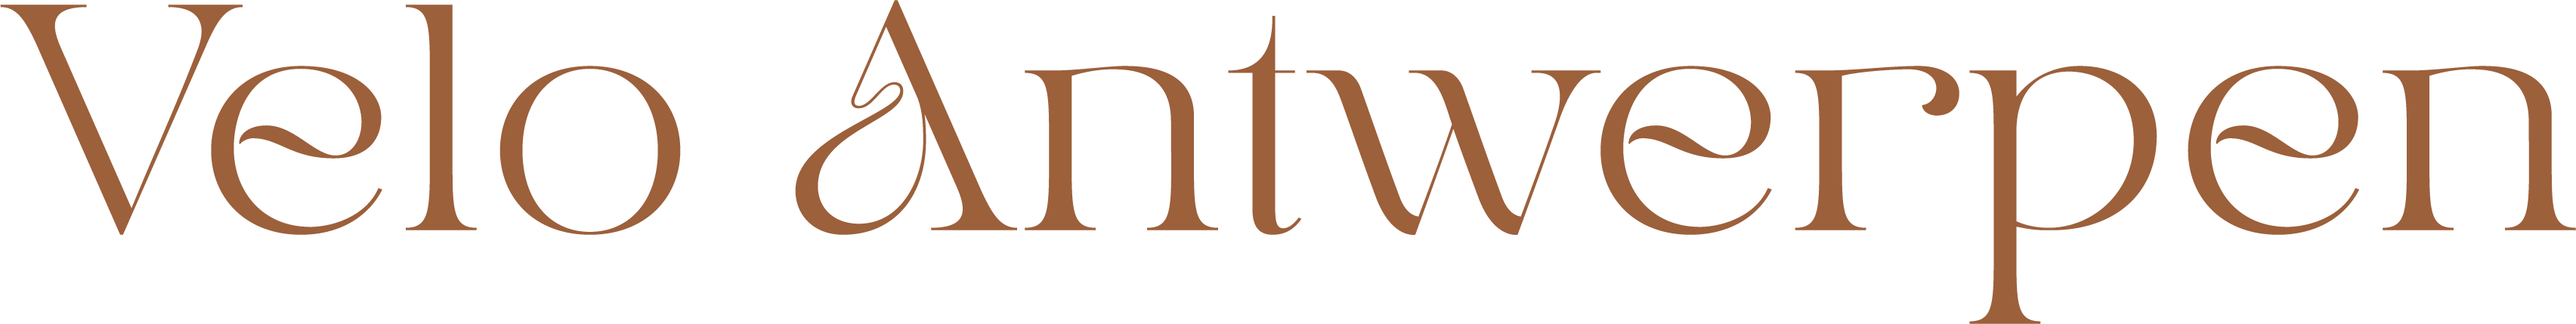
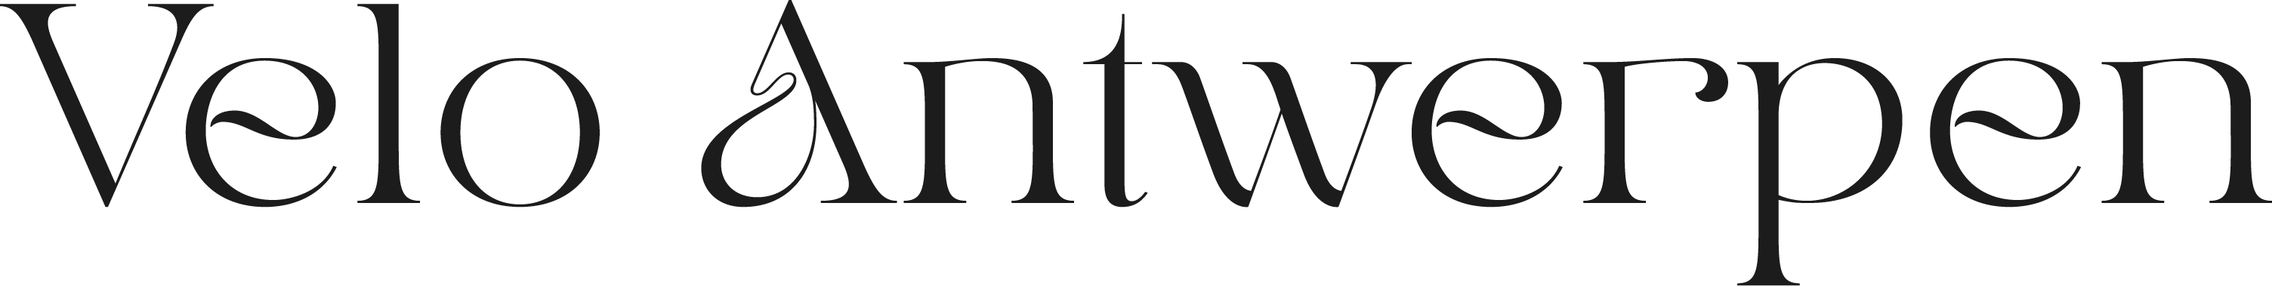
kleur wijziging

Changed region(s): [[0.25, 0.0, 1.0, 1.0], [0.0, 0.0, 0.25, 0.7256], [0.0625, 0.0, 0.0938, 0.1741]]

diff --git a/src/styles/Home.module.css b/src/styles/Home.module.css
@@ -34,13 +34,13 @@
   font-size: 16px;
   width: 100%;
   max-width: 250px;
-  background-color: rgba(230, 231, 226, 1);
+  background-color: #1d1d1d00;
   border-radius: 50px;
-  border-color: rgba(155, 95, 59, 1);
+  border-color: #1d1d1d;
 }
 
 .results {
-  margin-top: 10px;
+  margin-top: 0px;
   display: flex;
   flex-direction: column;
   justify-content: space-between;
@@ -48,6 +48,9 @@
   margin-left: 20px;
   margin-right: 20px;
   font-size: 13px;
+  background-color: #1d1d1d00;
+  padding: 5px 10px;
+  border-radius: 5px;
 }
 
 .stationContainer {
@@ -56,10 +59,12 @@
 
 .customLink {
   display: block;
-  margin: 5px 0;
+  margin: px 5px;
   font-size: 13px;
-  color: rgba(155, 95, 59, 1);
+  color: #1d1d1d;
   text-decoration: none;
+  border-bottom: 2px solid #1d1d1d;
+  padding-bottom: 10px;
 }
 
 .customLink:hover {

diff --git a/src/pages/index.js b/src/pages/index.js
@@ -14,7 +14,7 @@ export default function Index() {
                     <Image src="/Velo-Antwerpen-01.png" alt="Logo" width={300} height={40} className={styles.logo} />
                 </div>
 
-                <p className={styles.text}>Welkom bij Velo, waar fietsen een avontuur wordt en mobiliteit een belevenis.</p>
+                <p className={styles.text}>Laat je meevoeren door de bruisende energie van Antwerpen terwijl je op de pedalen van een Velo-fiets trapt.</p>
 
                 <Link href="/home">
                     <button className={styles.homeButton}>Find your bike</button>

diff --git a/src/styles/StationId.module.css b/src/styles/StationId.module.css
@@ -7,7 +7,7 @@
     font-size: var(--header-font-size);
     font-family: 'Montserrat', sans-serif;
     font-weight: normal;
-    color: rgb(42, 42, 42);
+    color: #1d1d1d;
     margin-bottom: 20px;
 }
 

diff --git a/src/styles/Navbar.module.css b/src/styles/Navbar.module.css
@@ -7,7 +7,7 @@
     display: flex;
     justify-content: space-between;
     align-items: center;
-    background-color: rgba(182, 136, 120, 1);
+    background-color: #1d1d1d;
     z-index: 1000;
 }
 

diff --git a/src/styles/footer.module.css b/src/styles/footer.module.css
@@ -1,5 +1,5 @@
 .footer {
-    background-color: rgba(155, 95, 59, 1);
+    background-color: #1d1d1d;
     text-align: center;
     padding-bottom: 10px;
     padding-top: 2px;

diff --git a/src/styles/index.module.css b/src/styles/index.module.css
@@ -46,5 +46,5 @@
     font-size: 14px;
     color: white;
     margin-bottom: 15px;
-    margin-right: 100px;
+    margin-right: 80px;
 }
